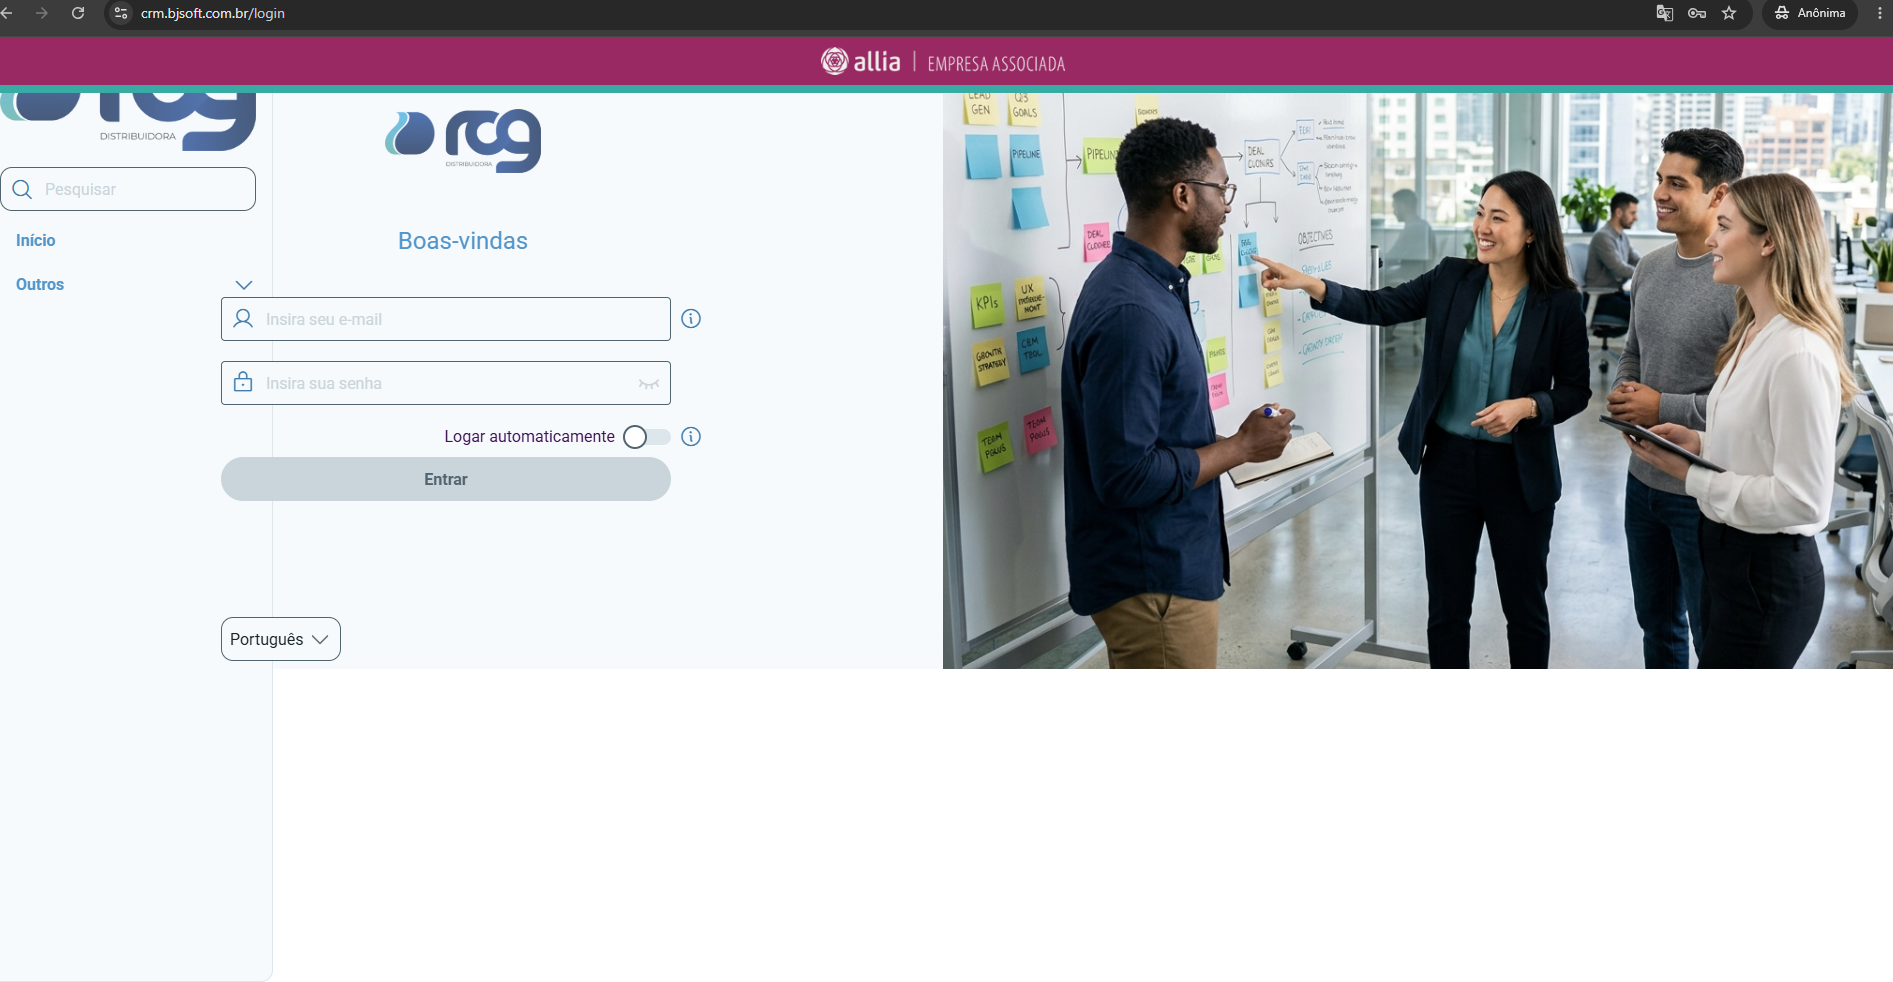
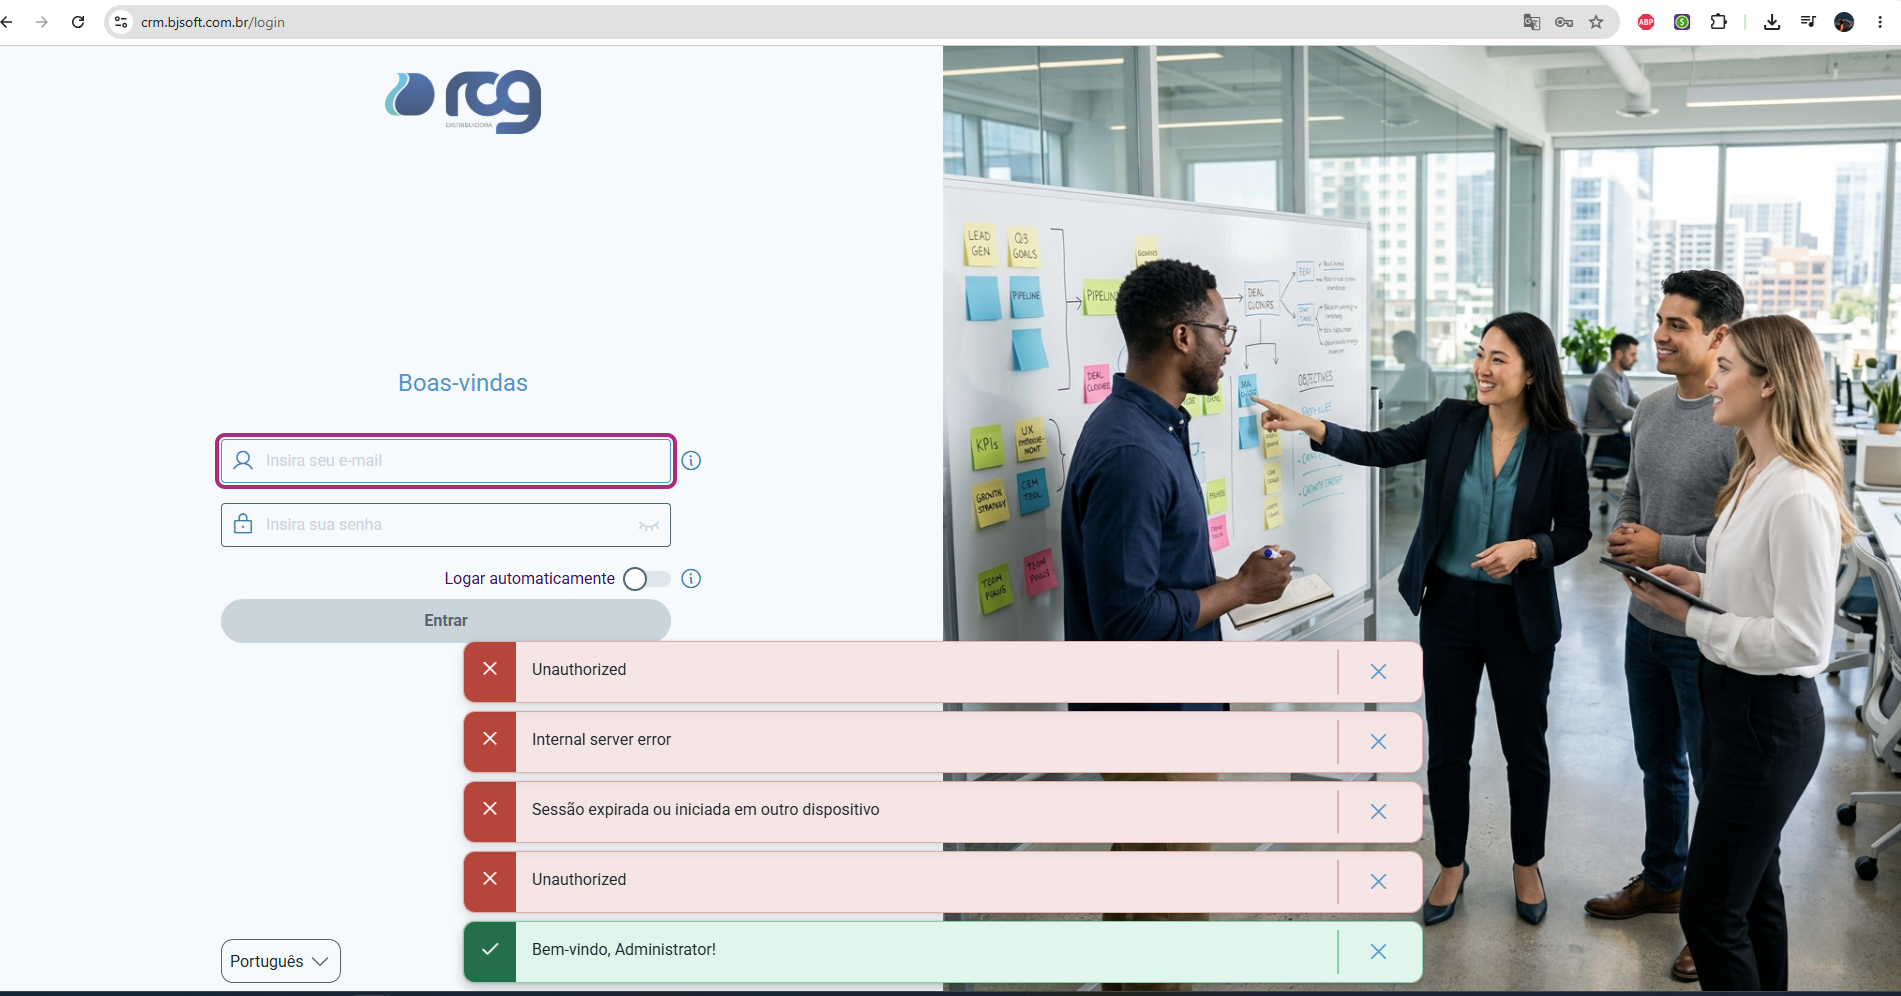
login

diff --git a/backend/src/modules/auth/jwt.strategy.ts b/backend/src/modules/auth/jwt.strategy.ts
@@ -30,36 +30,48 @@ export class JwtStrategy extends PassportStrategy(Strategy) {
   }
 
   async validate(payload: JwtPayload) {
-    // Se for um token temporário (2fa, terms), apenas validar se o payload está ok
-    if (payload.scope) {
+    try {
+      // Se for um token temporário (2fa, terms), apenas validar se o payload está ok
+      if (payload.scope) {
+        return {
+          userId: payload.sub,
+          username: payload.username,
+          scope: payload.scope,
+        };
+      }
+
+      // Validação de Sessão Única (Trava Redis)
+      const activeSessionId = await this.cacheManager.get(
+        `session:${payload.sub}`,
+      );
+
+      console.log(`[AUTH-GUARD] 🔐 Validando sessão do usuário ${payload.sub}`);
+      console.log(`[AUTH-GUARD] 🎫 SID no Token: ${payload.sid}`);
+      console.log(`[AUTH-GUARD] 🗄️ SID no Cache: ${activeSessionId}`);
+
+      if (!activeSessionId || activeSessionId !== payload.sid) {
+        console.warn(`[AUTH-GUARD] ❌ Sessão inválida ou duplicada detectada para usuário ${payload.sub}`);
+        throw new UnauthorizedException(
+          'Sessão expirada ou iniciada em outro dispositivo',
+        );
+      }
+
+      const profile = await this.authService.getProfile(payload.sub);
+
       return {
         userId: payload.sub,
         username: payload.username,
-        scope: payload.scope,
+        unitId: payload.unitId,
+        sid: payload.sid,
+        vendedorId: profile.vendedorId,
+        supervisorId: profile.supervisorId,
+        managedVendedorIds: profile.managedVendedorIds,
+        isGerente: profile.isGerente,
       };
+    } catch (error) {
+      console.error(`[AUTH-GUARD] 🔥 Erro fatal na validação do token:`, error.message);
+      if (error instanceof UnauthorizedException) throw error;
+      throw new UnauthorizedException('Falha técnica na validação da sessão');
     }
-
-    // Validação de Sessão Única (Trava Redis)
-    const activeSessionId = await this.cacheManager.get(
-      `session:${payload.sub}`,
-    );
-    if (!activeSessionId || activeSessionId !== payload.sid) {
-      throw new UnauthorizedException(
-        'Sessão expirada ou iniciada em outro dispositivo',
-      );
-    }
-
-    const profile = await this.authService.getProfile(payload.sub);
-
-    return {
-      userId: payload.sub,
-      username: payload.username,
-      unitId: payload.unitId,
-      sid: payload.sid,
-      vendedorId: profile.vendedorId,
-      supervisorId: profile.supervisorId,
-      managedVendedorIds: profile.managedVendedorIds,
-      isGerente: profile.isGerente,
-    };
   }
 }

diff --git a/backend/src/modules/auth/auth.service.ts b/backend/src/modules/auth/auth.service.ts
@@ -114,7 +114,10 @@ export class AuthService {
 
     // Gerar ID de sessão única
     const sessionId = uuidv4();
-    await this.cacheManager.set(`session:${user.id}`, sessionId, 0);
+    console.log(`[AUTH] 🔑 Gerando nova sessão para ${user.id}: ${sessionId}`);
+    
+    // TTL de 24 horas para evitar expiração imediata em alguns stores
+    await this.cacheManager.set(`session:${user.id}`, sessionId, 86400000); 
 
     // Atualizar no banco para persistência
     await this.userRepository.update(user.id, { currentSessionId: sessionId });